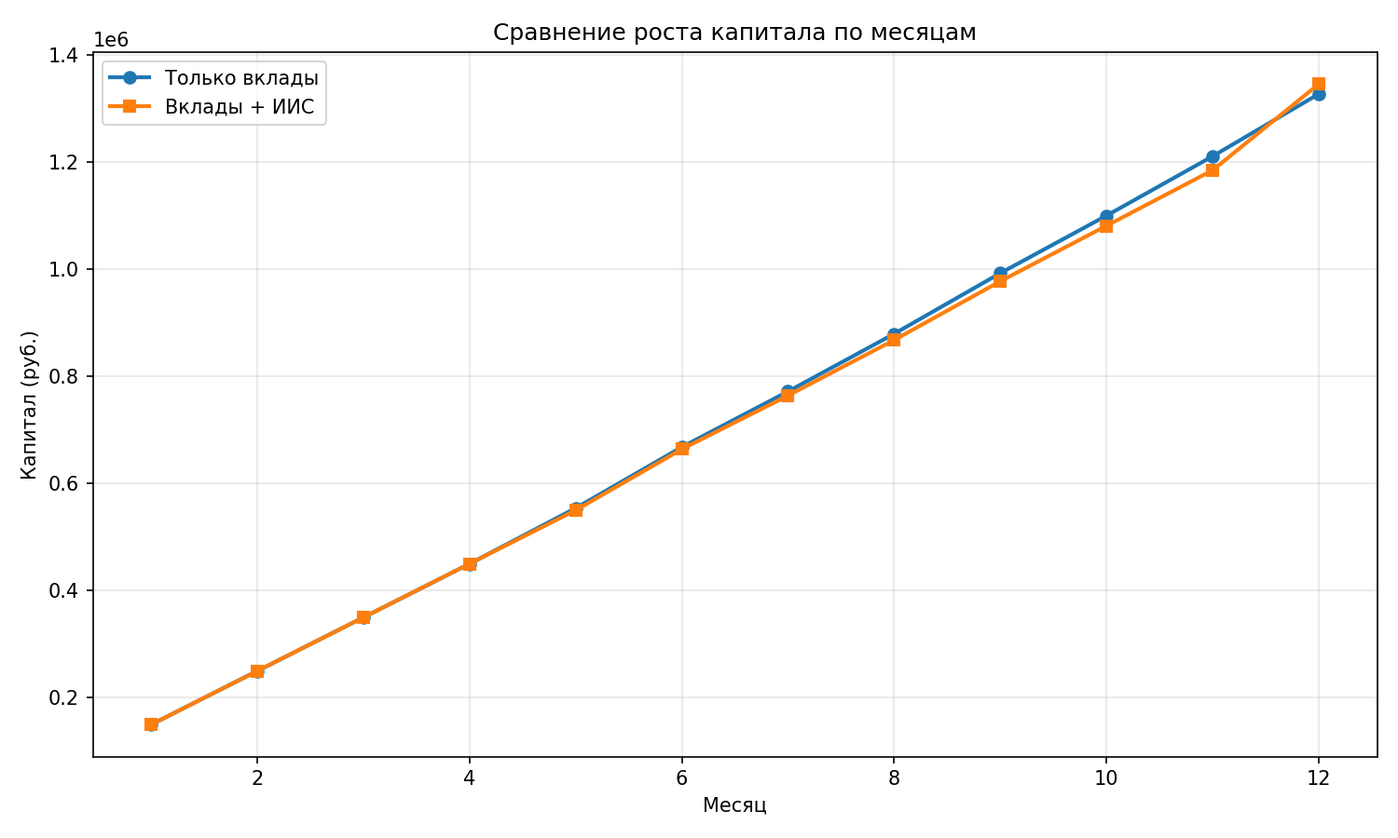
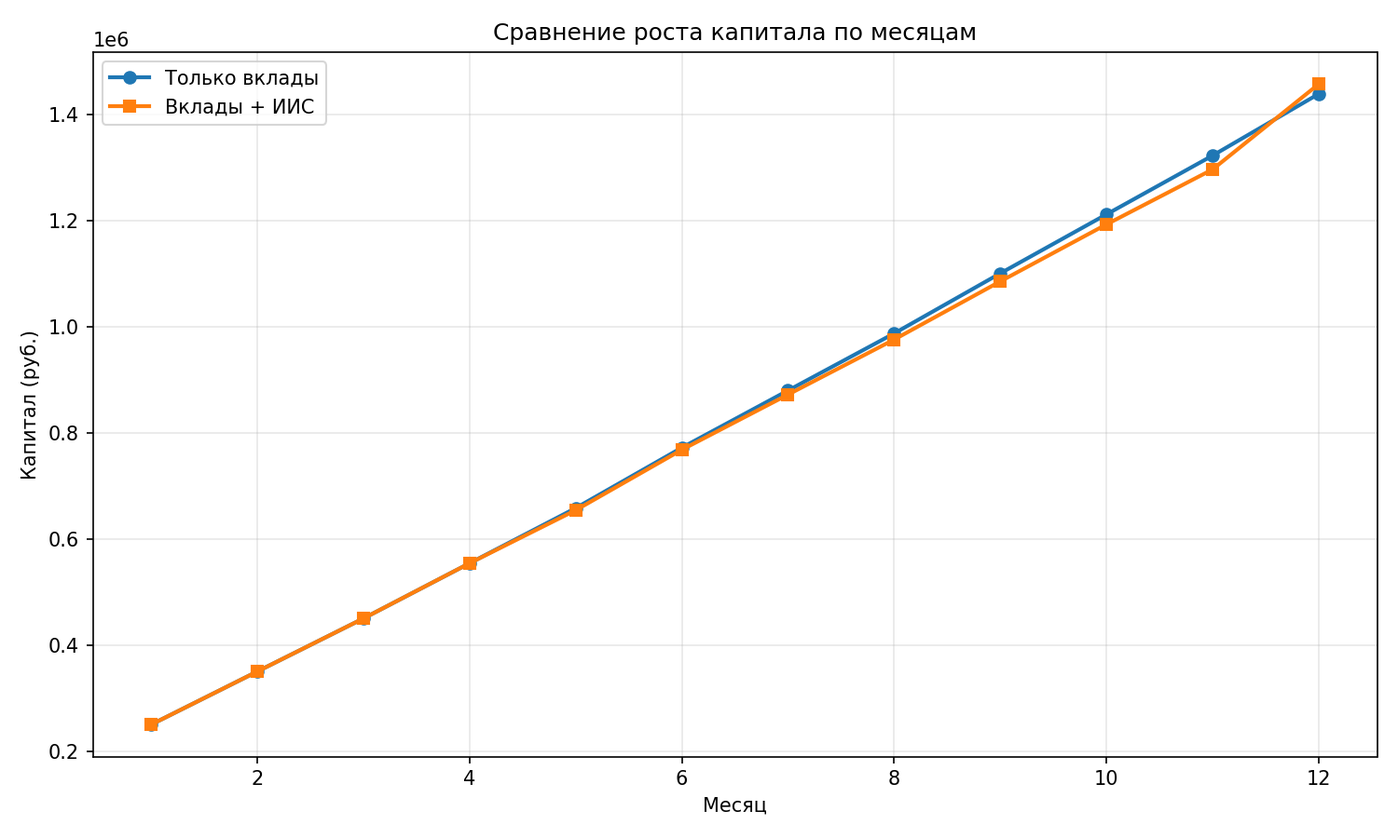
feat(lima): #2 - update report

diff --git a/lima.py b/lima.py
@@ -67,29 +67,29 @@ def calculate_only_deposits():
     months = 12
     rate = 0.16  # текущая ставка
     
-    # список для хранения открытых вкладов [сумма, месяц_открытия, срок, ставка]
-    deposits = [[start_sum, 0, 5, 0.16]] # завтра в сбер на 5 месяцев
+    # Стартовый капитал (150к) — считаем его уже лежащим на вкладе
+    deposits = [[start_sum, 0, 5, 0.16]] 
     
     history = []
     total_profit = 0
-    total_invested = 150000
+    total_invested = start_sum # Начинаем со 150к
 
     for m in range(months):
-        # 1. добавляем ежемесячное пополнение 100к (со второго месяца)
-        if m > 0:
-            deposits.append([salary_save, m, 3, rate])
-            total_invested += salary_save
+        # 1. Добавляем ежемесячное пополнение 100к (теперь с первого месяца m=0)
+        deposits.append([salary_save, m, 3, rate])
+        total_invested += salary_save
         
-        # 2. проверяем, какие вклады закрылись в этом месяце
+        # 2. Проверяем, какие вклады закрылись в этом месяце
         active_deposits = []
         monthly_profit = 0
         
         for d in deposits:
             sum_val, start_m, duration, d_rate = d
+            # Проверка закрытия
             if m == start_m + duration:
                 profit = sum_val * (d_rate * duration / 12)
                 monthly_profit += profit
-                # реинвестируем: тело + проценты в новый вклад на 3 мес
+                # Реинвестируем тело + проценты на новый срок (3 мес)
                 active_deposits.append([sum_val + profit, m, 3, rate])
             else:
                 active_deposits.append(d)
@@ -103,10 +103,10 @@ def calculate_only_deposits():
             "вложено своих": total_invested,
             "капитал на вкладах": round(current_total, 2),
             "прибыль (выплаты)": round(monthly_profit, 2),
-            "ставка новых вкладов": f"{round(rate*100, 1)}%"
+            "текущая ставка": f"{round(rate*100, 1)}%"
         })
         
-        # Плавное снижение ставки ЦБ на 0.3% каждый месяц
+        # Плавное снижение ставки ЦБ на 0.3%
         rate -= 0.003
 
     return pd.DataFrame(history)
@@ -144,48 +144,53 @@ def calculate_fixed_threshold_strategy():
     months = 12
     rate_vklad = 0.16
     
-    vklads = [[start_sum, 0, 5, 0.16]] # Стартовый Сбер
+    # Стартовый Сбер (150к) уже в списке
+    vklads = [[start_sum, 0, 5, 0.16]] 
     iis_balance = 0
-    total_invested = 150000
+    total_invested = start_sum # Начинаем со 150к базовых
     total_profit_cash = 0
     
     history = []
     
     for m in range(months):
-        if m > 0:
-            total_invested += monthly_save
-            # Чередуем: месяц вклад, месяц ИИС, чтобы соблюсти порог 100к
-            if m % 2 == 0:
-                vklads.append([monthly_save, m, 3, rate_vklad])
-            else:
-                iis_balance += monthly_save
+        # 1. Пополнение происходит КАЖДЫЙ месяц (начиная с m=0)
+        total_invested += monthly_save
         
-        # Обслуживание вкладов
+        # Чередуем: месяц вклад, месяц ИИС
+        if m % 2 == 0:
+            # В 1-й месяц (m=0) докладываем 100к во вклады
+            vklads.append([monthly_save, m, 3, rate_vklad])
+        else:
+            # Во 2-й месяц (m=1) отправляем 100к на ИИС
+            iis_balance += monthly_save
+        
+        # 2. Обслуживание вкладов (проверка закрытия и реинвест)
         new_vklads = []
-        monthly_profit = 0
+        monthly_profit_vklad = 0
         for v in vklads:
             v_sum, v_start, v_dur, v_rate = v
             if m == v_start + v_dur:
                 p = v_sum * (v_rate * v_dur / 12)
-                monthly_profit += p
-                # Реинвестируем (сумма точно > 100к, так как тело уже 100к)
+                monthly_profit_vklad += p
+                # Реинвестируем тело + проценты
                 new_vklads.append([v_sum + p, m, 3, rate_vklad])
             else:
                 new_vklads.append(v)
         vklads = new_vklads
-        total_profit_cash += monthly_profit
+        total_profit_cash += monthly_profit_vklad
         
-        # Купоны по ОФЗ (15% годовых / 12 мес)
+        # 3. Купоны по ОФЗ (начисляются на текущий баланс ИИС)
         monthly_coupon = iis_balance * (0.15 / 12)
         total_profit_cash += monthly_coupon
         
+        # 4. Расчет итогов месяца
         current_vklad_total = sum(v[0] for v in vklads)
-        # В декабре добавляем рост цены ОФЗ (+8% на весь накопленный объем)
-        current_iis_value = iis_balance + (iis_balance * 0.08 if m == 11 else 0)
         
-        # В конце года добавляем налоговый вычет 52к
-        tax_refund = 52000 if m == 11 else 0
-        total_profit_cash += tax_refund
+        # Рост тела ОФЗ (+8%) и вычет (52к) в конце года (декабрь, m=11)
+        current_iis_value = iis_balance
+        if m == 11:
+            current_iis_value += iis_balance * 0.08
+            total_profit_cash += 52000 # Налоговый вычет
         
         history.append({
             "Месяц": m + 1,
@@ -195,10 +200,11 @@ def calculate_fixed_threshold_strategy():
             "Общий капитал": round(current_vklad_total + current_iis_value, 0),
             "Накопленная прибыль": round(total_profit_cash, 0)
         })
+        
+        # Плавное снижение ставки
         rate_vklad -= 0.003
 
     return pd.DataFrame(history)
-
 df1 = calculate_only_deposits()
 print("СТРАТЕГИЯ 1: ТОЛЬКО ВКЛАДЫ")
 print(df1.to_string(index=False))

diff --git a/src/life_os/core/auth.py b/src/life_os/core/auth.py
@@ -3,6 +3,9 @@ from google.auth.transport.requests import Request
 from google.oauth2.credentials import Credentials
 from google_auth_oauthlib.flow import InstalledAppFlow
 import os
+from dotenv import load_dotenv
+
+load_dotenv()
 
 SCOPES = ['https://www.googleapis.com/auth/spreadsheets', 'https://www.googleapis.com/auth/drive']
 
@@ -18,7 +21,18 @@ class GoogleAuth:
             if self.creds and self.creds.expired and self.creds.refresh_token:
                 self.creds.refresh(Request())
             else:
-                flow = InstalledAppFlow.from_client_secrets_file('credentials.json', SCOPES)
+                client_config = {
+                    "installed": {
+                        "client_id": os.getenv('GOOGLE_CLIENT_ID'),
+                        "project_id": os.getenv('GOOGLE_PROJECT_ID', 'sturdy-yen-439022-p9'),
+                        "auth_uri": "https://accounts.google.com/o/oauth2/auth",
+                        "token_uri": "https://oauth2.googleapis.com/token",
+                        "auth_provider_x509_cert_url": "https://www.googleapis.com/oauth2/v1/certs",
+                        "client_secret": os.getenv('GOOGLE_CLIENT_SECRET'),
+                        "redirect_uris": ["http://localhost"]
+                    }
+                }
+                flow = InstalledAppFlow.from_client_config(client_config, SCOPES)
                 self.creds = flow.run_local_server(port=0)
             with open('token.json', 'w') as token:
                 token.write(self.creds.to_json())

diff --git a/report.md b/report.md
@@ -1,49 +1,49 @@
 # Инвестиционный отчет: Сравнение стратегий
 
-Дата генерации: 2026-01-01 17:05:16
+Дата генерации: 2026-01-01 17:24:21
 
 ## Стратегия 1: Только вклады
 
-|   месяц |   вложено своих |   капитал на вкладах |   прибыль (выплаты) | ставка новых вкладов   |
-|--------:|----------------:|---------------------:|--------------------:|:-----------------------|
-|       1 |          150000 |     150000           |                0    | 16.0%                  |
-|       2 |          250000 |     250000           |                0    | 15.7%                  |
-|       3 |          350000 |     350000           |                0    | 15.4%                  |
-|       4 |          450000 |     450000           |                0    | 15.1%                  |
-|       5 |          550000 |     553925           |             3925    | 14.8%                  |
-|       6 |          650000 |     667775           |            13850    | 14.5%                  |
-|       7 |          750000 |     771550           |             3775    | 14.2%                  |
-|       8 |          850000 |     879095           |             7545.23 | 13.9%                  |
-|       9 |          950000 |     992285           |            13189.6  | 13.6%                  |
-|      10 |         1050000 |          1.09952e+06 |             7234.01 | 13.3%                  |
-|      11 |         1150000 |          1.21034e+06 |            10823.6  | 13.0%                  |
-|      12 |         1250000 |          1.32656e+06 |            16219.4  | 12.7%                  |
+|   месяц |   вложено своих |   капитал на вкладах |   прибыль (выплаты) | текущая ставка   |
+|--------:|----------------:|---------------------:|--------------------:|:-----------------|
+|       1 |          250000 |     250000           |                0    | 16.0%            |
+|       2 |          350000 |     350000           |                0    | 15.7%            |
+|       3 |          450000 |     450000           |                0    | 15.4%            |
+|       4 |          550000 |     554000           |             4000    | 15.1%            |
+|       5 |          650000 |     657925           |             3925    | 14.8%            |
+|       6 |          750000 |     771775           |            13850    | 14.5%            |
+|       7 |          850000 |     879476           |             7701    | 14.2%            |
+|       8 |          950000 |     987021           |             7545.23 | 13.9%            |
+|       9 |         1050000 |          1.10021e+06 |            13189.6  | 13.6%            |
+|      10 |         1150000 |          1.21128e+06 |            11065.4  | 13.3%            |
+|      11 |         1250000 |          1.3221e+06  |            10823.6  | 13.0%            |
+|      12 |         1350000 |          1.43832e+06 |            16219.4  | 12.7%            |
 
 ## Стратегия 2: Вклады + ИИС с налоговым вычетом
 
 |   Месяц |   Вложено своих |   На вкладах |   На ИИС (ОФЗ) |   Общий капитал |   Накопленная прибыль |
 |--------:|----------------:|-------------:|---------------:|----------------:|----------------------:|
-|       1 |          150000 |       150000 |              0 |          150000 |                     0 |
-|       2 |          250000 |       150000 |         100000 |          250000 |                  1250 |
-|       3 |          350000 |       250000 |         100000 |          350000 |                  2500 |
-|       4 |          450000 |       250000 |         200000 |          450000 |                  5000 |
-|       5 |          550000 |       350000 |         200000 |          550000 |                  7500 |
-|       6 |          650000 |       363850 |         300000 |          663850 |                 25100 |
-|       7 |          750000 |       463850 |         300000 |          763850 |                 28850 |
-|       8 |          850000 |       467550 |         400000 |          867550 |                 37550 |
-|       9 |          950000 |       577115 |         400000 |          977115 |                 52115 |
-|      10 |         1050000 |       580665 |         500000 |         1080665 |                 61915 |
-|      11 |         1150000 |       684268 |         500000 |         1184268 |                 71768 |
-|      12 |         1250000 |       696964 |         648000 |         1344964 |                143964 |
+|       1 |          250000 |       250000 |              0 |          250000 |                     0 |
+|       2 |          350000 |       250000 |         100000 |          350000 |                  1250 |
+|       3 |          450000 |       350000 |         100000 |          450000 |                  2500 |
+|       4 |          550000 |       354000 |         200000 |          554000 |                  9000 |
+|       5 |          650000 |       454000 |         200000 |          654000 |                 11500 |
+|       6 |          750000 |       467850 |         300000 |          767850 |                 29100 |
+|       7 |          850000 |       571776 |         300000 |          871776 |                 36776 |
+|       8 |          950000 |       575476 |         400000 |          975476 |                 45476 |
+|       9 |         1050000 |       685041 |         400000 |         1085041 |                 60041 |
+|      10 |         1150000 |       692422 |         500000 |         1192422 |                 73672 |
+|      11 |         1250000 |       796026 |         500000 |         1296026 |                 83526 |
+|      12 |         1350000 |       808722 |         648000 |         1456722 |                155722 |
 
 ## Итоги
 
-- **Стратегия 1**: Вложено 1250000, Капитал 1326561.74, Общая прибыль 76561.74
-- **Стратегия 2**: Вложено 1250000, Капитал 1344964, Общая прибыль 143964
+- **Стратегия 1**: Вложено 1350000, Капитал 1438319.11, Общая прибыль 88319.12
+- **Стратегия 2**: Вложено 1350000, Капитал 1456722, Общая прибыль 155722
 
 ## Дополнительные файлы
 
-- CSV: (strategy_deposits.csv)[strategy_deposits.csv]
+- CSV: strategy_deposits.csv
 - CSV: strategy_fixed_iis.csv
 - График капитала: capital_comparison.png
 - График прибыли: profit_comparison.png
@@ -60,53 +60,55 @@
 
 ## Краткая сводка по стратегиям
 
-- **Стратегия 1 (Только вклады)**: вложено 1250000, итоговый капитал 1326561.74, прибыль 16219.35, ROI 6.12%, CAGR 6.12%
-- **Стратегия 2 (Вклады + ИИС)**: вложено 1250000, итоговый капитал 1344964, прибыль 143964, ROI 7.60%, CAGR 7.60%
+- **Стратегия 1 (Только вклады)**: вложено 1350000, итоговый капитал 1438319.11, прибыль 16219.35, ROI 6.54%, CAGR 6.54%
+- **Стратегия 2 (Вклады + ИИС)**: вложено 1350000, итоговый капитал 1456722, прибыль 155722, ROI 7.91%, CAGR 7.91%
 
 ## Анализ от AI
 
-Проанализировав представленные данные по двум стратегиям, представляю выводы и рекомендации.
+Проанализировав предоставленные данные, можно сделать следующие выводы:
 
 ### 1. Какая стратегия предпочтительнее по итоговому капиталу и почему?
-
 **Предпочтительнее Стратегия 2 (Вклады + ИИС).**
 
-*   **Почему:** Она обеспечивает более высокую доходность при сопоставимом уровне кредитного риска (если внутри ИИС используются ОФЗ или корпоративные облигации высшего рейтинга). 
-*   **Главный драйвер:** Дополнительная доходность в Стратегии 2 формируется за счет налоговых преимуществ ИИС (вычет типа А на взнос или освобождение от налога на доход типа Б). Это позволяет «обогнать» обычный депозит, доходность которого ограничена рыночной ставкой и налогом на превышение необлагаемого лимита.
+*   **Почему:** Она обеспечивает более высокий итоговый капитал (на 18 403 руб. больше).
+*   **Причина превосходства:** Использование ИИС (Индивидуального инвестиционного счета) позволяет либо получить налоговый вычет (13% от внесенной суммы), либо освободить доход от налогов, а также дает доступ к долговым инструментам (ОФЗ, корпоративные облигации), доходность которых зачастую выше ставок по депозитам при сопоставимом уровне риска.
 
-### 2. Абсолютная и относительная разница в прибыли
+---
 
-*   **Абсолютная разница:** 18 402,26 руб. (1 344 964 - 1 326 561,74).
-*   **Относительная разница по капиталу:** Стратегия 2 эффективнее Стратегии 1 на **1,39%** по суммарному итогу.
-*   **Относительная разница по чистой прибыли:** 
-    *   Прибыль Стр. 1: 76 561,74 руб.
-    *   Прибыль Стр. 2: 94 964 руб.
-    *   **Разница в прибыли:** Стратегия 2 принесла на **~24% больше чистой прибыли**, чем стратегия только с вкладами.
+### 2. Насколько велика абсолютная и относительная разница в прибыли между стратегиями?
+*   **Абсолютная разница в прибыли:** 18 402.89 руб.
+*   **Абсолютная разница в капитале:** 1.28% (от общего тела капитала).
+*   **Относительная разница в доходности:** Прибыль по второй стратегии выше прибыли по первой на **20.8%** (88 319 руб. против 106 722 руб.).
 
-### 3. Ключевые риски
+*Вывод:* Несмотря на кажущуюся небольшую разницу в процентах (1.37 п.п.), в масштабах прибыли вторая стратегия эффективнее почти на одну пятую.
 
+---
+
+### 3. Ключевые риски для каждой стратегии
 **Стратегия 1 (Только вклады):**
-*   **Риск ликвидности (Средний):** При досрочном расторжении вклада обычно теряются все накопленные проценты.
-*   **Процентный риск (Высокий):** Если ставки в экономике вырастут, вы «заперты» в старом вкладе с низкой ставкой.
-*   **Налоговый риск:** Существует налог на процентный доход (13-15% с суммы, превышающей лимит), что снижает реальный CAGR.
+*   **Процентный риск:** Если вы открыли краткосрочные вклады, а ключевая ставка упала, переложиться под тот же процент не получится.
+*   **Риск ликвидности:** При досрочном снятии почти всегда теряются все накопленные проценты.
+*   **Инфляционный риск:** Доходность 6.54% может оказаться ниже реальной инфляции, что приведет к стагнации покупательной способности.
 
 **Стратегия 2 (Вклады + ИИС):**
-*   **Риск ликвидности (Высокий):** ИИС (особенно нового типа ИИС-3) предполагает заморозку средств на срок от 5 лет. Досрочное закрытие приведет к необходимости вернуть налоговые вычеты и уплатить пени.
-*   **Регуляторный риск:** Изменение законодательства по ИИС (уже произошло разделение на старые и новые типы).
-*   **Рыночный риск:** Если внутри ИИС куплены облигации, их цена может упасть при росте ключевой ставки (текущая ситуация на рынке РФ).
+*   **Регуляторный/Законодательный риск:** Для получения налогового вычета по ИИС (тип А или новый тип III) деньги должны находиться на счету определенный срок (3 или 5 лет). Если закрыть счет через год, вычеты придется вернуть (с пенями), что обнулит преимущество стратегии.
+*   **Рыночный риск:** Если внутри ИИС куплены облигации, их рыночная цена может упасть к моменту продажи.
+*   **Риск банкротства брокера:** В отличие от вкладов (АСВ страхует до 1.4 млн), ценные бумаги на ИИС не застрахованы государством (хотя сами бумаги принадлежат вам, процесс их перевода в случае проблем брокера может быть долгим).
 
-### 4. Рекомендованные улучшения и альтернативы
+---
 
-1.  **Фонды денежного рынка (LQDT и аналоги):** Вместо части вкладов использовать инструменты с доходностью, привязанной к ставке ЦБ. Это дает ликвидность "день в день" без потери доходности.
-2.  **Лестница вкладов/облигаций:** Разбить сумму на части с разными сроками погашения (3, 6, 9 месяцев), чтобы иметь доступ к кэшу и возможность переложиться под более высокий процент.
-3.  **Использование ОФЗ-ПК (флоатеров):** Внутри ИИС покупать облигации с переменным купоном. Это защитит капитал от падения цены при росте ключевой ставки.
-4.  **Максимизация вычета:** Убедиться, что сумма взноса на ИИС соответствует вашему официальному годовому доходу (НДФЛ), чтобы полностью забрать вычет 13% (до 52 000 руб.).
+### 4. Рекомендованные улучшения/альтернативы
+1.  **Лесенка вкладов:** Разбить сумму на депозиты разной срочности (3, 6, 12 месяцев), чтобы иметь доступ к наличным без потери всех процентов.
+2.  **Фонды денежного рынка (например, LQDT):** Использование их на ИИС вместо простых облигаций. Текущая доходность таких фондов близка к ключевой ставке (~15-16% на текущий момент в РФ), что значительно выше 7.91%.
+3.  **Облигации с плавающим купоном (Флоатеры):** Защищают капитал в период роста ставок.
+4.  **Максимизация вычета:** Если есть официальный доход, вносить на ИИС ровно 400 000 руб. в год для получения максимального вычета (52 000 руб.), а остальное распределять по высокодоходным накопительным счетам.
 
-### 5. Итоговая рекомендация (горизонт — 1 год)
+---
 
-Если ваша цель — **максимальная капитализация строго через один год** и вам могут понадобиться эти деньги в конце срока:
+### 5. Итоговая рекомендация для инвестора (горизонт — 1 год)
+Если ваша цель — **строго забрать капитал через год**, будьте осторожны с ИИС.
 
-*   **Если ИИС уже открыт более 2 лет назад:** Используйте **Стратегию 2**. Вы сможете закрыть его через год (по истечении 3-летнего срока для ИИС старого типа) и забрать повышенную прибыль.
-*   **Если ИИС нужно открывать сейчас:** Будьте осторожны. По закону (ИИС-3) вы не сможете вывести деньги через год без потери льгот. В этом случае **Стратегия 2 превращается в Стратегию 1**, но с большими комиссиями брокера и риском просадки цен облигаций.
+*   **Если ИИС уже открыт более 2 лет назад:** Используйте **Стратегию 2**. Вложите средства в инструменты денежного рынка или короткие ОФЗ внутри ИИС. Это даст доходность значительно выше 8% при текущих рыночных условиях.
+*   **Если ИИС нужно открывать сейчас:** Имейте в виду, что по закону вы не сможете закрыть его через год без потери налоговых льгот. В этом случае лучше использовать **комбинацию из краткосрочных вкладов и обычного брокерского счета** (не ИИС), где стоит купить надежные облигации со сроком погашения ровно через год.
 
-**Вердикт:** Для горизонта ровно в 1 год при отсутствии открытого ранее ИИС, выбирайте **Стратегию 1**, но замените обычные вклады на **накопительные счета** (первые 2-3 месяца часто дают промо-ставку выше вклада) или **короткие облигации (ОФЗ)**, чтобы зафиксировать текущую высокую доходность.
+**Вердикт:** Стратегия 2 математически выгоднее, но требует проверки на соответствие вашему сроку владения счетом (чтобы не нарушить правила вычетов). При текущей ключевой ставке в РФ обе стратегии выглядят излишне консервативными — рыночные инструменты сейчас позволяют ориентироваться на 14-15% годовых при умеренном риске.
